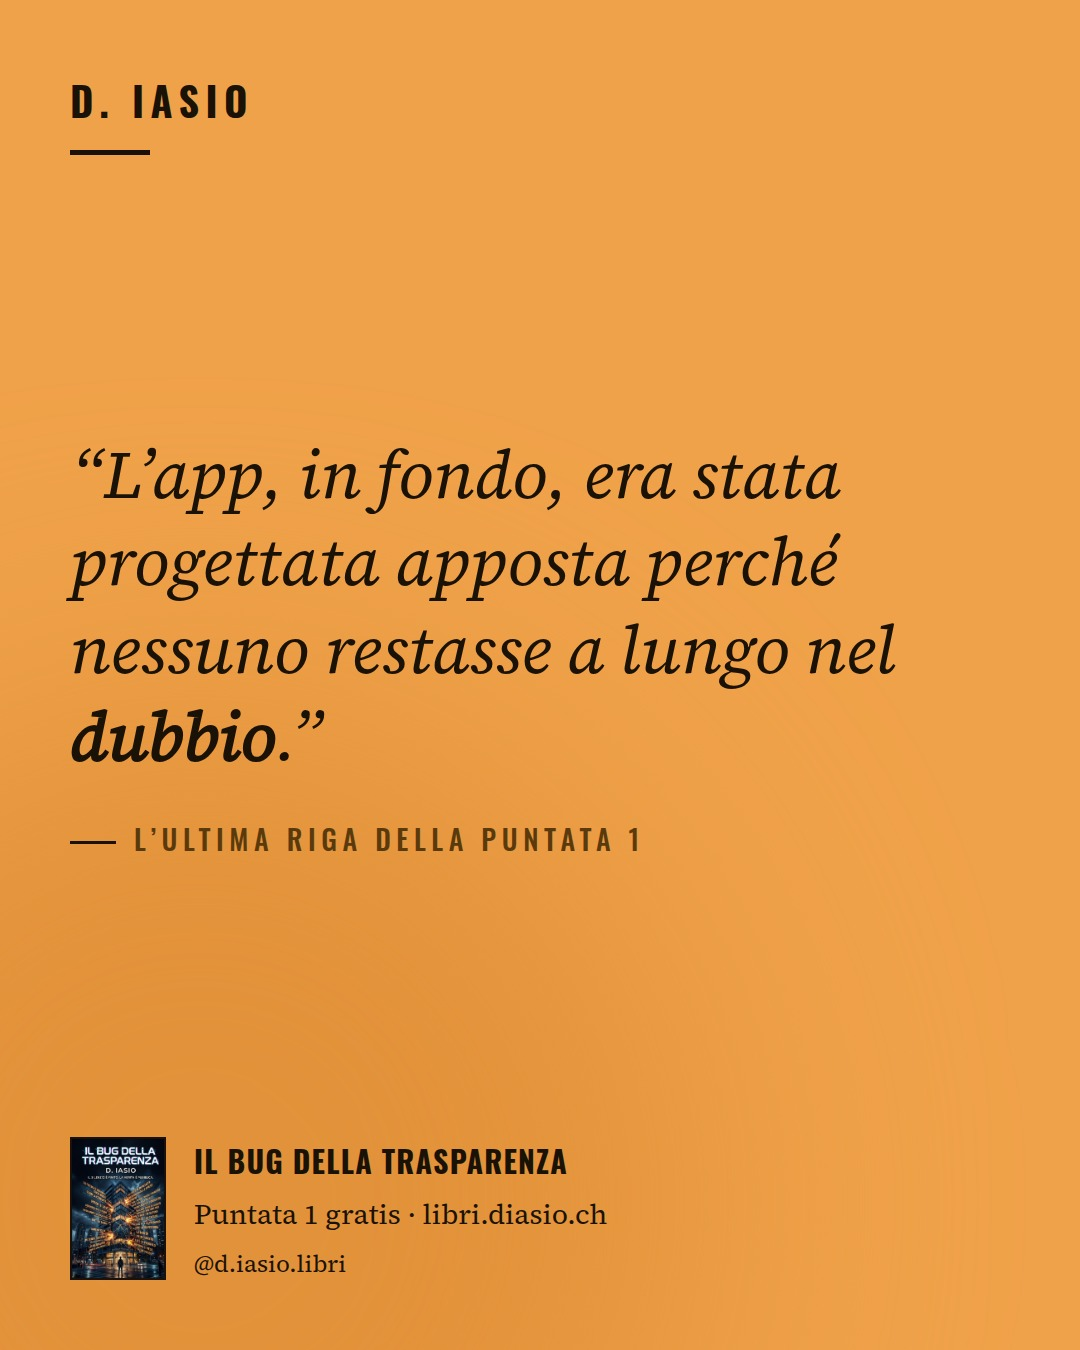
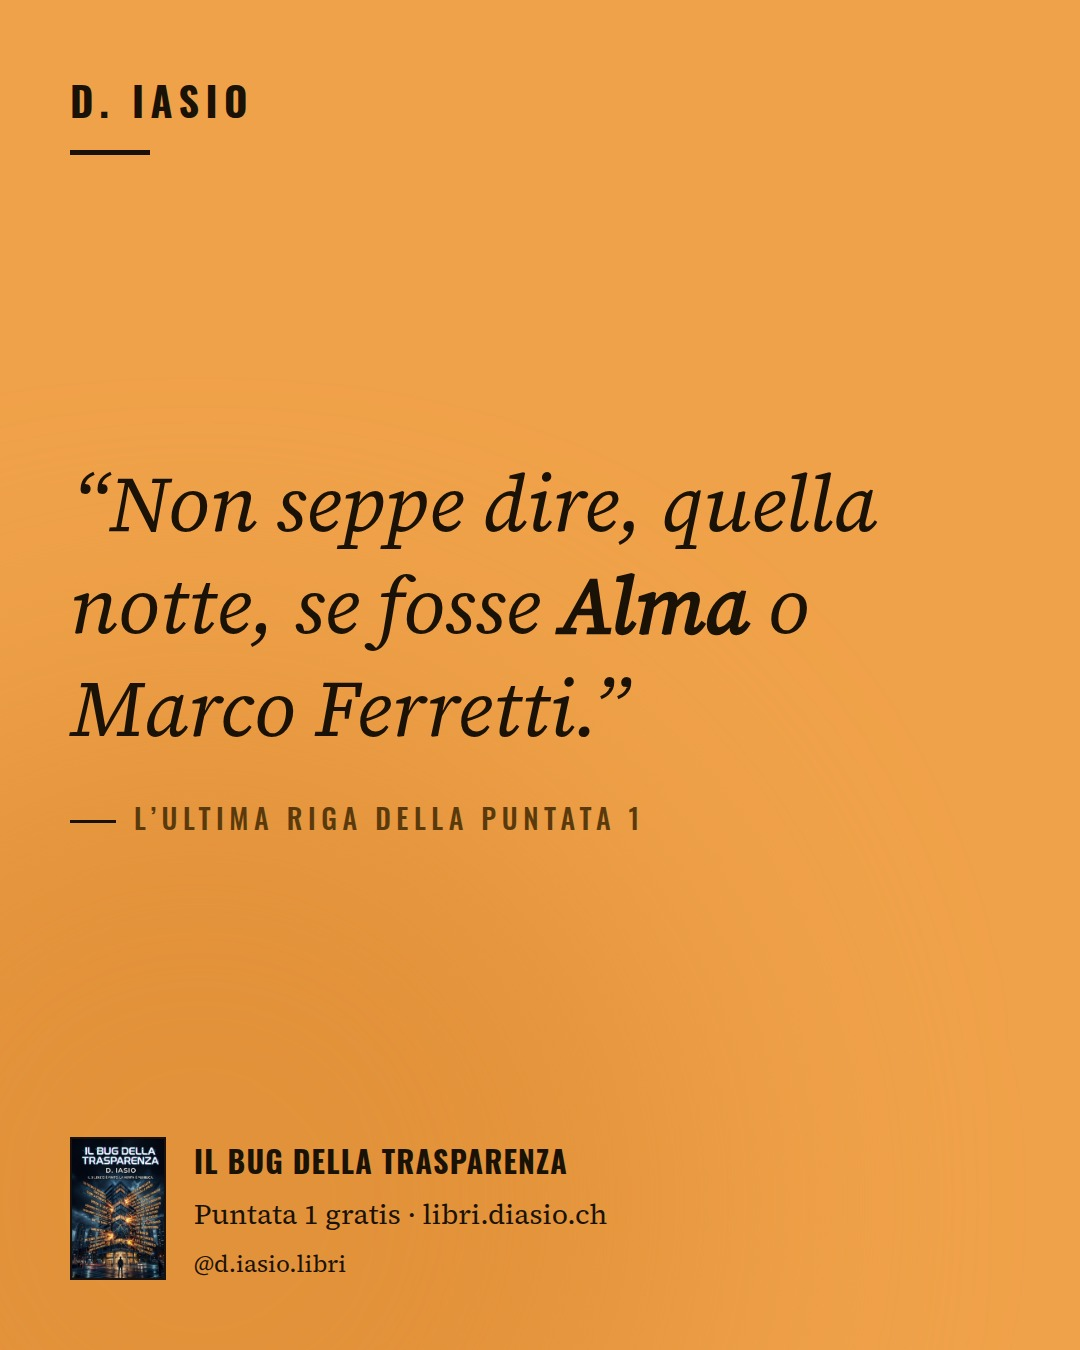
Memoria dopo la PR #22 e citazione corretta della grafica d08 (#23)
* CLAUDE.md: memoria dopo la PR #22 (anteprime riviste, revisione editoriale, citazione rotta d08)

Claude-Session: https://claude.ai/code/session_01HRCTwe4NpiQWFHcUF24fV2

* Grafica d08: citazione sostituita con l'ultima riga attuale della Puntata 1 del Bug

La frase precedente è stata tagliata dalla revisione editoriale. Aggiornati
calendar.json e carousels.py, rigenerata l'immagine, aggiornata la nota in CLAUDE.md.

Claude-Session: https://claude.ai/code/session_01HRCTwe4NpiQWFHcUF24fV2

---------

Changed region(s): [[0.0611, 0.3111, 0.825, 0.6533]]

diff --git a/social/tools/carousels.py b/social/tools/carousels.py
@@ -126,10 +126,10 @@ ITEMS = [
   "#ticino #svizzeraitaliana #narrativaitaliana #noir #thrillerpsicologico",
   "Grafica scura con la scritta «Buone feste. Una storia da leggere una sera alla volta. La Puntata 1 è gratis.»"),
  single("d08-bug-nel-dubbio", "2026-12-29T19:30", "bug", "Lettori noir (core) + tech",
-  Q("L’app, in fondo, era stata progettata apposta perché nessuno restasse a lungo nel *dubbio*.", who="L’ultima riga della Puntata 1"),
+  Q("Non seppe dire, quella notte, se fosse *Alma* o Marco Ferretti.", who="L’ultima riga della Puntata 1"),
   "L’ultima riga della Puntata 1 de Il Bug della Trasparenza. Da lì in poi, ogni puntata è una sera in più nel palazzo.\n" + CTA,
   "#noir #thriller #narrativaitaliana #tecnologia #libriconsigliati",
-  "Citazione su fondo ambra: «L’app, in fondo, era stata progettata apposta perché nessuno restasse a lungo nel dubbio.» Il Bug della Trasparenza.", theme="amber"),
+  "Citazione su fondo ambra: «Non seppe dire, quella notte, se fosse Alma o Marco Ferretti.» Il Bug della Trasparenza.", theme="amber"),
  single("d09-buon-anno", "2026-12-31T12:30", "bug", "Newsletter + tutti",
   dict(k="hook", text="Buon *2027*.", sub="Una mail quando esce la prossima storia. Iscriviti alla newsletter: link in bio."),
   "L’ultimo giorno dell’anno, un solo invito: se vuoi sapere quando esce la prossima storia, iscriviti alla newsletter. Una mail alla volta, niente rumore. E la Puntata 1 di entrambi i romanzi resta gratis.\nLink in bio.",

diff --git a/CLAUDE.md b/CLAUDE.md
@@ -1,6 +1,6 @@
 # libri.diasio.ch: memoria di progetto (leggila prima di lavorare)
 
-Ultimo aggiornamento: 1 ottobre 2026, dopo le PR #1-#19 (PR #14: pagina `/vuoto/`, Puntata 1 di Vuoto a rendere e link Amazon; PR #15: carosello b01; PR #17: schede animate di Oblio e Vuoto; PR #18: cron di `social-publish` ogni 15 minuti; PR #19: homepage con testi corretti ed effetti). Se questo file e il repo divergono, fidati del repo e correggi il file.
+Ultimo aggiornamento: 1 ottobre 2026, dopo le PR #1-#22 (PR #14: pagina `/vuoto/`, Puntata 1 di Vuoto a rendere e link Amazon; PR #15: carosello b01; PR #17: schede animate di Oblio e Vuoto; PR #18: cron di `social-publish` ogni 15 minuti; PR #19: homepage con testi corretti ed effetti; PR #22: anteprime gratuite di Bug e Oblio rigenerate dalla revisione editoriale). Se questo file e il repo divergono, fidati del repo e correggi il file.
 
 ## Cos'è
 Sito statico (GitHub Pages, CNAME `libri.diasio.ch`) di D. Iasio: tre romanzi, «Il Bug della Trasparenza» (noir sociale, 8 puntate), «L'Economia dell'Oblio» (thriller psicologico, 6 puntate) e «Vuoto a rendere» (romanzo satirico, 10 puntate, sottotitolo «Un romanzo in dieci voci di listino»). La Puntata 1 di ognuno è gratis in PDF/EPUB (`download/`, senza iscrizione). Newsletter MailerLite (landing `davide-fek7ym.subscribepage.io`, pagina `/grazie/`), contatore visite GoatCounter (codice `diasio`). Instagram `@d.iasio.libri` e Pagina Facebook «D. Iasio».
@@ -10,7 +10,7 @@ Obiettivo unico: iscrizioni alla newsletter e download della Puntata 1, a budget
 - Italiano, risposte chiare e operative. Distinguere i dati presenti dalle inferenze. Dire cosa fa l'utente e cosa fa Claude. Se manca un'informazione importante, chiedere prima di produrre.
 - **Mai** seguire, scrivere, commentare o cliccare su Instagram/Facebook senza conferma esplicita. Niente follow o messaggi di massa (violano le regole di Meta).
 - Approvare = fare il merge su `main`, e il merge **pubblica**. Non unire senza via libera. Nessun token o Secret in chat, nei file o nei commit.
-- Le citazioni dei romanzi devono essere testuali dalle Puntata 1 (`download/*.epub`). Non inventare frasi né trama.
+- Le citazioni dei romanzi devono essere testuali dalle Puntata 1 (`download/*.epub`). Non inventare frasi né trama. Dal 1/10 (PR #22) le Puntata 1 di Bug e Oblio in `download/` sono nel testo **rivisto**: prima di usare una citazione riconfrontarla con l'EPUB attuale (l'ultima riga della Puntata 1 del Bug ora è «Non seppe dire, quella notte, se fosse Alma o Marco Ferretti.»).
 - I romanzi sono in vendita: l'autore scrive «disponibili in formato integrale negli store». Non scrivere «solo a puntate»: possono essere rilasciati a puntate oppure no, a discrezione dell'autore.
 - Stato degli store (dato dall'utente il 1/10/2026): **Il Bug** e **L'Oblio** sono disponibili su Amazon Kindle (KDP): Bug `https://www.amazon.it/dp/B0HLN2VSJP`, Oblio `https://www.amazon.it/dp/B0HLMKWJZ5` (verificati dai titoli delle schede). Su **StreetLib** (e negli store che distribuisce, **esclusa Amazon** per non avere doppioni: Kobo, Apple Books, Google Play Libri e altri) sono «prossimamente». **Vuoto a rendere** non è ancora pubblicato: sul sito è «in arrivo negli store».
 - Il romanzo completo di Vuoto a rendere (EPUB, PDF, copertina, quarta) **non va nel repo**, che è pubblico: nel repo c'è solo la Puntata 1 (capitolo 1). Nei file ebook per gli store non mettere link diretti ad Amazon (Apple Books e Kobo li rifiutano): solo `libri.diasio.ch` e la newsletter.
@@ -27,6 +27,9 @@ Obiettivo unico: iscrizioni alla newsletter e download della Puntata 1, a budget
 Già pubblicati: r00 (eliminato a mano dall'app), r00b (30/09, miniatura sulle copertine), p00 presentazione (30/09 12:01, IG e FB), r01 (1/10, uscito alle 20:21 con lancio manuale, IG e FB) e il carosello b01 (1/10, uscito alle 20:34 con lancio manuale, IG e FB). Prossimo: Reel r02 il 2 ottobre alle 12:30. Fuori calendario c'è anche un post su L'Oblio del 30/9 pubblicato a mano dall'app (citazione «Signor Merli, mi porti a quel giorno…»): non è in `published.json`; il suo stile (copertina in alto che sfuma, citazione in corsivo con una parola ambra) è quello del carosello b01.
 **Provato con l'API reale:** carosello (b01, 1/10: pubblicazione riuscita nel log; il controllo visivo di ordine delle slide, didascalia e link Amazon su Facebook spetta all'utente). **Mai provati:** Storia (prima il 5/10) e post di testo (primo il 9/10). I dry run sono riusciti. Controllare il primo di ognuno appena esce.
 
+## Revisione editoriale (1/10/2026, fuori dal repo)
+Fatta con la skill `editore-narrativa` (EPUB rivisto, PDF brossura KDP 13,97×21,59 cm, report). **L'Economia dell'Oblio** v2: 117 interventi, 74 pagine. **Il Bug della Trasparenza** v2: 91 interventi (54 oggettivi), 72 pagine; sei scelte dell'editor da far rileggere all'autore (voci B7-02b, B7-05b, B7-11, B7-12, B8-07, B8-08 del report: seme Alma/Nadia con i «pancake veri», sessione di Elio ferma alla notte della caduta, bonifico di Yusuf che precede il file con importi 500 e 2.000 franchi scelti dall'editor, chiusura dei due messaggi anonimi). File consegnati in chat, **non** in Drive né nel repo (il testo integrale non va nel repo pubblico): EPUB, PDF, report e `KDP_scheda_copertina_Bug_Oblio.md` (dorso con carta bianca/crema: Bug 4,12/4,57 mm, Oblio 4,23/4,70 mm; sotto le 79 pagine niente testo sul dorso, da verificare nel calcolatore KDP). Le edizioni su Amazon Kindle sono ancora il testo **precedente** alla revisione: caricare le v2 è una scelta dell'autore (verificare come KDP tratta chi ha già acquistato). La skill aggiornata è uno zip da ricaricare nell'account (le modifiche alla cartella sincronizzata non si salvano da sole).
+
 ## Trappole già incontrate
 - Dopo un merge, Pages impiega circa 30-60 secondi: un dry run subito dopo può fallire con «File non raggiungibile». Non è un bug.
 - Con più esecuzioni manuali ravvicinate GitHub tiene una sola in coda e annulla le altre.
@@ -38,6 +41,7 @@ Già pubblicati: r00 (eliminato a mano dall'app), r00b (30/09, miniatura sulle c
 - Stories: solo immagine, senza sticker né link. Instagram non ha post di solo testo (solo Facebook).
 - Rendering: `python social/tools/carousel.py` (Playwright + Chromium, `CHROMIUM_PATH`), slide con immagine in alto: campo `hero` della slide (offset in px sulla copertina larga 1080, oppure `(y, zoom, x)`; la copertina HD è letta dall'EPUB della Puntata 1) e `caption_fb` per una didascalia Facebook con link diretti; Reel con `social/reels-src/render-all.sh` (HyperFrames + FFmpeg). I font di Windows non ci sono in cloud.
 - I branch `main-xxxx` delle sessioni cloud sono del repo `Campanella`, non di questo.
+- Citazioni e revisione: dopo la revisione una frase citata dalla grafica `d08-bug-nel-dubbio` (29/12) non esisteva più nella Puntata 1; è stata sostituita con l'ultima riga attuale («Non seppe dire, quella notte, se fosse Alma o Marco Ferretti.») in `calendar.json` e `carousels.py`, e l'immagine è stata rigenerata. Il controllo automatico su tutte le citazioni di `social/` e delle pagine non ha trovato altre frasi rotte (vede solo quelle tra virgolette o caporali).
 
 ## Set fotografico IA (fuori dal repo)
 Prompt per un set di scatti da montare con le grafiche e i Reel già in calendario, generati con Gemini (Nano Banana 2). File di testo nella cartella Drive «libri.diasio.ch - lavori del 1 ottobre 2026»: `Bug - set fotografico (prompt).md`, `Bug - prompt restanti B03-B18.md`, `Oblio - set fotografico (prompt).md`, più quarta, report e prompt copertina di Vuoto. Bug: fatti e approvati schede (torre, Nadia, Yusuf, Cesare), B01 (16:9 e 9:16), B02, B03 (16:9), B05 (16:9); restano i prompt B03 verticale e B04-B18. Oblio non iniziato. Regole imparate: una chat nuova per ogni scatto; non allegare la copertina del libro (fa ricomparire titolo e frasi al posto della scena); il testo dentro le immagini sbaglia, si aggiunge nel montaggio; dichiarare l'uso di IA. Le immagini approvate e gli zip (cartelle Bug e Oblio, Vuoto completo) sono stati consegnati in chat, non stanno su Drive.
@@ -46,7 +50,7 @@ Prompt per un set di scatti da montare con le grafiche e i Reel già in calendar
 Le fasce attuali sono ipotesi, non dati (vedi `social/STRATEGIA.md`). Decisione dell'utente (1/10): è presto per gli Insights; rivederli dopo circa 3 settimane di post (verso il 22/10) con screenshot di Instagram (Pubblico, Orari più attivi) e Facebook («Quando i tuoi fan sono online»), poi aggiornare `calendar.json`. Idea non decisa: provare orari diversi per i Reel del mercoledì e confrontare la copertura.
 
 ## Da fare a mano (utente)
-Controllare r01 e il carosello b01 (usciti il 1/10 alle 20:21 e 20:34) su Instagram e Facebook: miniatura e didascalia di r01; di b01 ordine delle 6 slide, didascalia intera e link Amazon cliccabili su Facebook. Guardare la nuova homepage da telefono e da PC (ventaglio copertine, frasi, fascia dei titoli, schede) e dire se un effetto disturba. Pubblicare «Vuoto a rendere» su KDP e StreetLib (testi di quarta, descrizione e parole chiave sono nel pacchetto consegnato in sessione); poi incollare i link in `js/config.js` (`books.vuoto.amazon`, `altriStore`) e, per Bug e Oblio, il link StreetLib in `altriStore` quando esiste; ricontrollare su Zefix e Amazon i nomi nuovi Sordina e Teleriva; dichiarare l'uso di IA su KDP e StreetLib; aggiornare Goodreads/aNobii (`social/kit/goodreads-anobii.md` dice ancora «quando è in vendita»). Verificare il pulsante «Iscriviti» sulla Pagina Facebook; rileggere il punto 12 della privacy; iscrizioni Goodreads e aNobii (`social/kit/`); verificare che il passaggio «Presentati» di Instagram sia chiuso; controllare profili e gruppi in `social/kit/esposizione-lista-e-testi.txt` (lista da verificare, non ancora seguito né contattato nessuno); il primo token Instagram scade dopo circa 60 giorni.
+Rileggere le sei scelte dell'editor del Bug v2 e aprire i due EPUB rivisti in un lettore vero (o Kindle Previewer); scegliere la carta (bianca o crema) e preparare la copertina di stampa con il dorso giusto; ricaricare lo zip della skill `editore-narrativa` nell'account; decidere se e quando caricare le v2 su KDP/StreetLib. Controllare r01 e il carosello b01 (usciti il 1/10 alle 20:21 e 20:34) su Instagram e Facebook: miniatura e didascalia di r01; di b01 ordine delle 6 slide, didascalia intera e link Amazon cliccabili su Facebook. Guardare la nuova homepage da telefono e da PC (ventaglio copertine, frasi, fascia dei titoli, schede) e dire se un effetto disturba. Pubblicare «Vuoto a rendere» su KDP e StreetLib (testi di quarta, descrizione e parole chiave sono nel pacchetto consegnato in sessione); poi incollare i link in `js/config.js` (`books.vuoto.amazon`, `altriStore`) e, per Bug e Oblio, il link StreetLib in `altriStore` quando esiste; ricontrollare su Zefix e Amazon i nomi nuovi Sordina e Teleriva; dichiarare l'uso di IA su KDP e StreetLib; aggiornare Goodreads/aNobii (`social/kit/goodreads-anobii.md` dice ancora «quando è in vendita»). Verificare il pulsante «Iscriviti» sulla Pagina Facebook; rileggere il punto 12 della privacy; iscrizioni Goodreads e aNobii (`social/kit/`); verificare che il passaggio «Presentati» di Instagram sia chiuso; controllare profili e gruppi in `social/kit/esposizione-lista-e-testi.txt` (lista da verificare, non ancora seguito né contattato nessuno); il primo token Instagram scade dopo circa 60 giorni.
 
 ## Igiene dei repository
 Dopo ogni PR unita i branch restano: cancellarli da GitHub (Branches, cestino) oppure attivare «Automatically delete head branches» in Settings > General.
